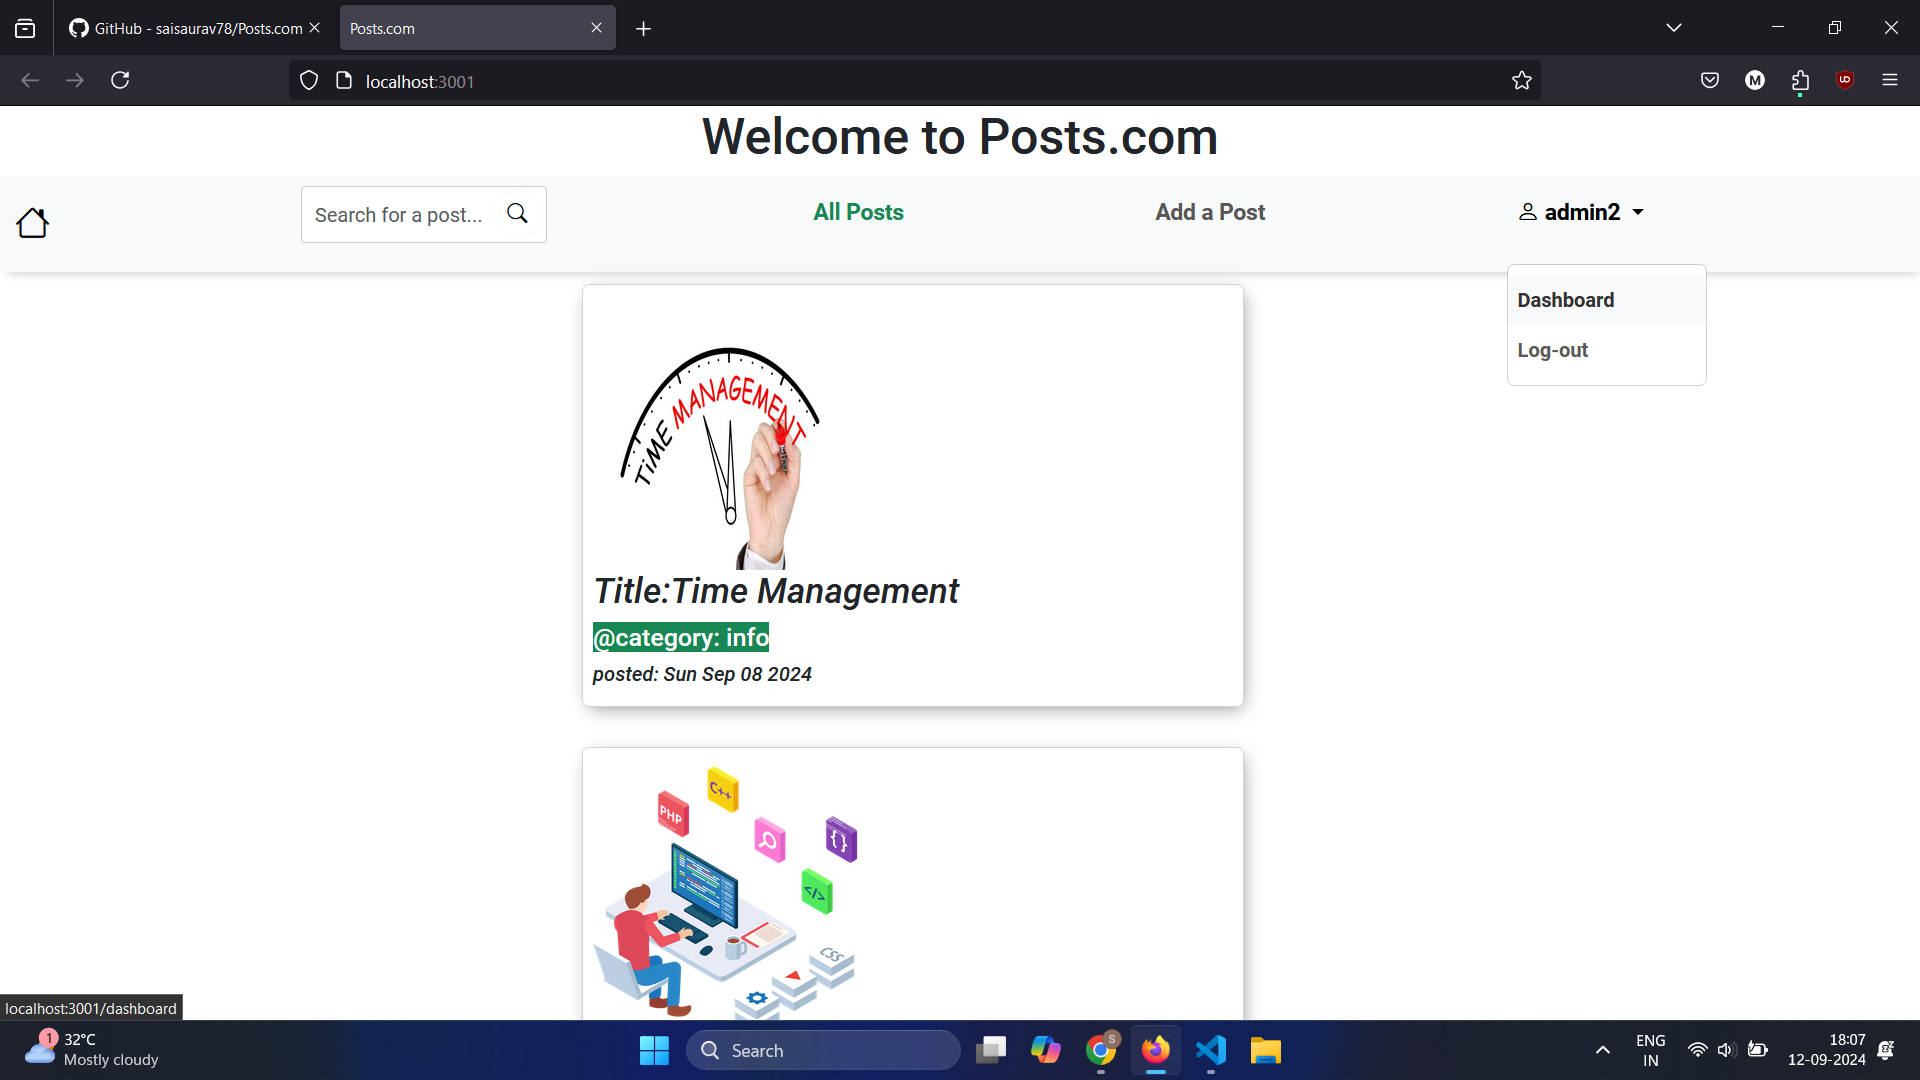
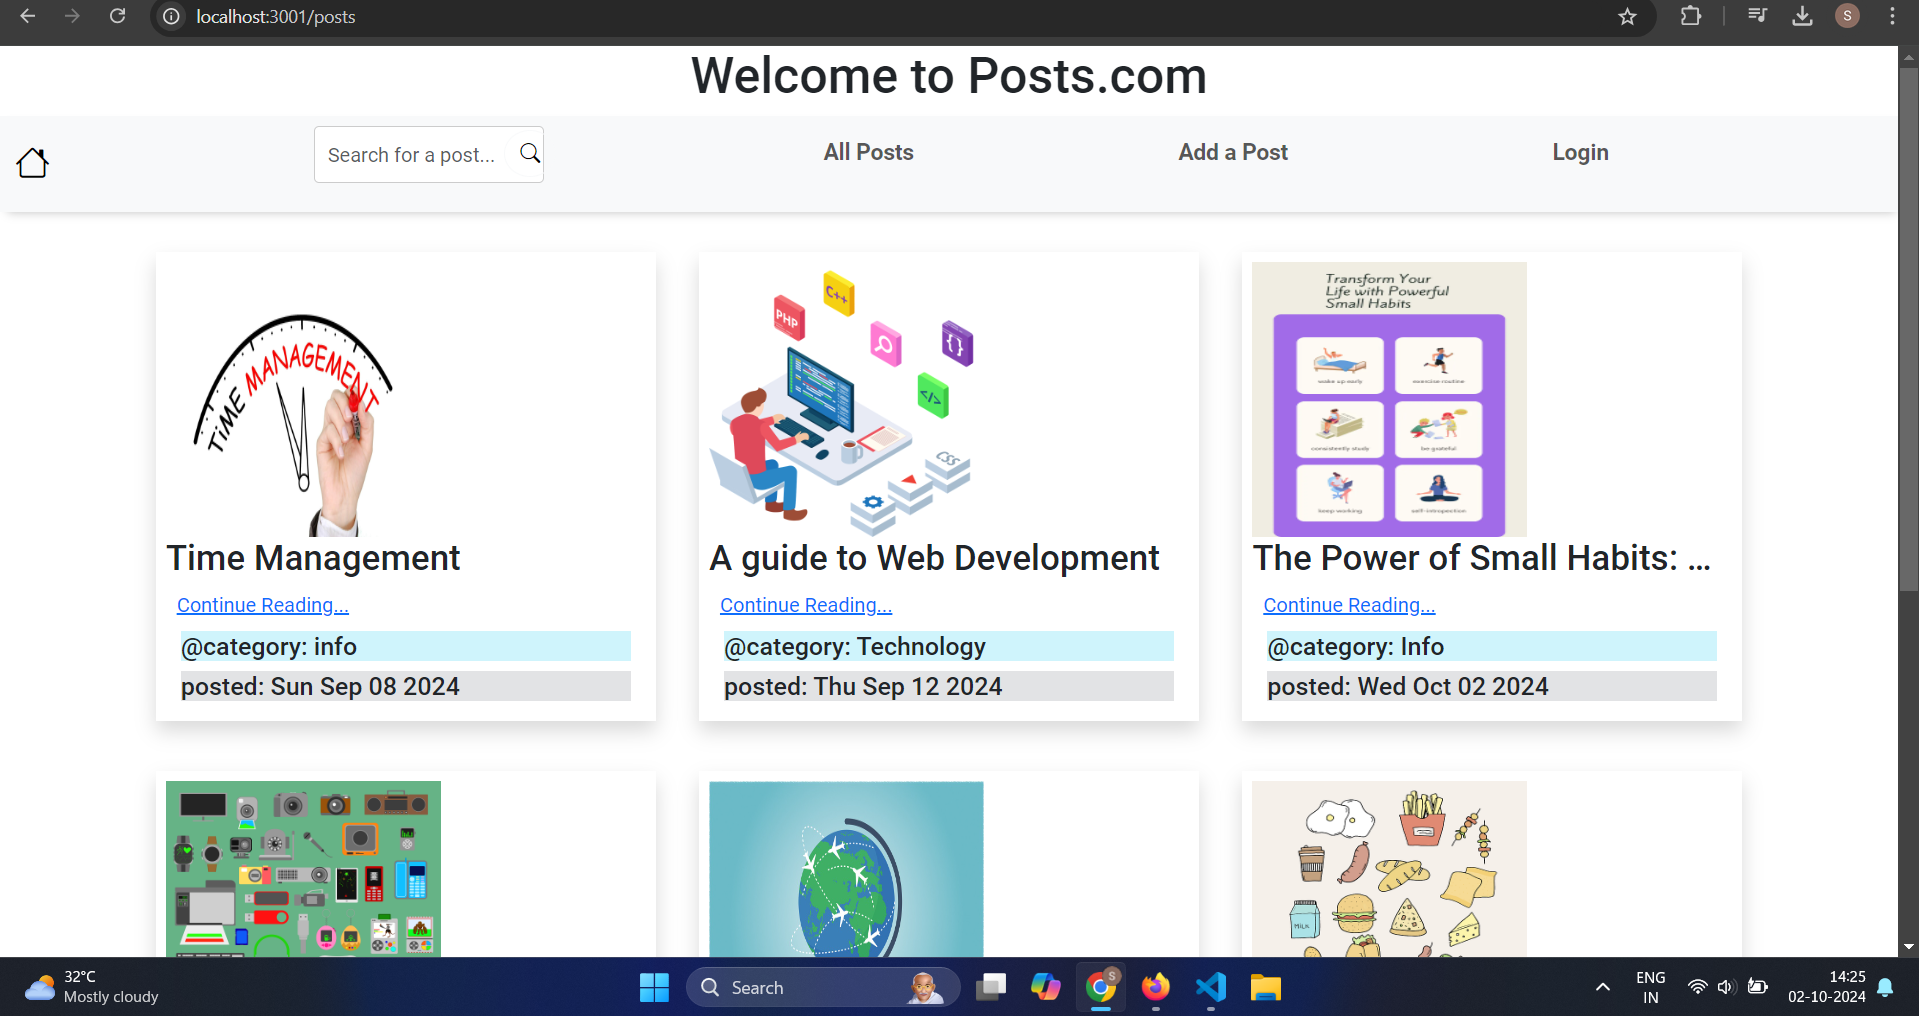
Improved UI, fixed some bugs

diff --git a/public/style.css b/public/style.css
@@ -24,7 +24,9 @@ body {
 }
 
 .nav-item.active .nav-link{
-  color: #198754;
+  text-underline-offset: 6px;
+  text-decoration:underline  #a4ddf1;
+  text-decoration-thickness: 5px;
 } 
 .navbar{
   font-weight: 550;
@@ -93,17 +95,10 @@ footer {
   width: 30%;
   height: max-content;
 }
-
-#post_card {
-  width:35%;
-  max-height: max-content !important;
-  text-align: left;
-  padding: 0.5rem; 
-  margin-left: 30%;
- box-shadow: 2px 4px 15px -4px rgba(0,0,0,0.45);
-}
-#post_card:hover{
-  opacity: 0.9;
+#post_card{
+min-width: 400px;
+ max-width: 400px; 
+ max-height: max-content;
 }
 #post_card_img{
   width: 220px; 
@@ -112,19 +107,22 @@ footer {
 #post_card_title h3{
   text-wrap: balance;
 }
-@media (max-width:700px){
+@media (max-width:700px)
+{
  #loginContainer, #registerContainer{
     max-width: 90%;
   }
   #post_card{
-   min-width: 90%;
+   min-width: 80% !important;
+   padding: 0;
     margin: 0 auto;
+    height: fit-content;
     max-height: fit-content !important;
   }
   #post_card_img{
   object-fit:contain;
-    width: 90%;
-    height: 60%;
+    width: 70%;
+    height: 30%;
   }
   #dashboard{
     width: 90%;
@@ -162,8 +160,15 @@ footer {
   overflow: hidden;
   /* font-weight: 500; */
 }
+/* #full_post_img{
+  display: flex;
+  justify-content: center;
+  align-items: center;
+  width: 100%;
+} */
 #full_post img{
-  width: 40%;
+  width: 30%;
+  height: 30%;
 }
 #post_card_btns{
   display:inline-flex;
